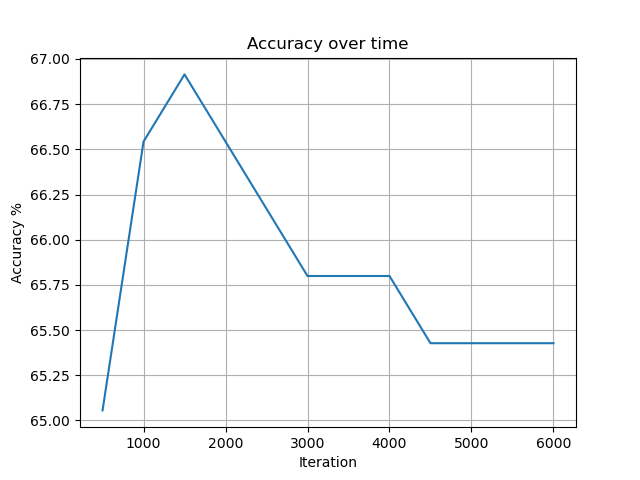
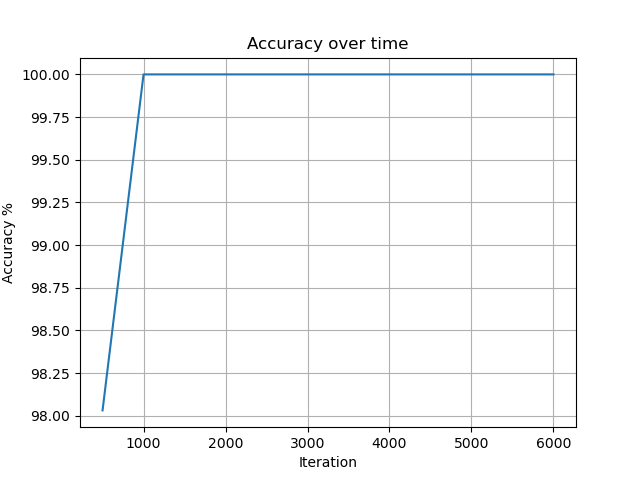
Optimizing

diff --git a/fnn.py b/fnn.py
@@ -9,20 +9,27 @@ class FeedforwardNeuralNetModel(nn.Module):
     def __init__(self, input_dim, hidden_dim, output_dim):
         super(FeedforwardNeuralNetModel, self).__init__()
         # Linear function
-        self.fc1 = nn.Linear(input_dim, hidden_dim) 
+        self.fc1 = nn.Linear(input_dim, hidden_dim)
+        self.bn1 = nn.BatchNorm1d(hidden_dim)
         # Linear function
         self.fc2 = nn.Linear(hidden_dim, hidden_dim * 2)  
+        self.bn2 = nn.BatchNorm1d(hidden_dim * 2)
         self.fc3 = nn.Linear(hidden_dim * 2, output_dim)  
         self.relu = nn.ReLU()
+        self.dropout = nn.Dropout(p=0.5)
     
     def forward(self, x):
         # Linear function  # LINEAR
         out = self.fc1(x)
+        out = self.bn1(out)
         # Non-linearity  # NON-LINEAR
         out = self.relu(out)
+        out = self.dropout(out)
         # Linear function (readout)  # LINEAR
         out = self.fc2(out)
+        out = self.bn2(out)
         out = self.relu(out)
+        out = self.dropout(out)
         out = self.fc3(out)
         return out
 
@@ -67,7 +74,7 @@ num_epochs = int(num_epochs)
 print(num_epochs)
 input_dim = 33
 output_dim = 2
-hidden_dim = 100
+hidden_dim = 1000
 
 train_dataset = CSVDataset(dataset_features, train_portion_dataset_labels)
 test_dataset = CSVDataset(test_dataset_features, test_portion_dataset_labels)
@@ -83,7 +90,17 @@ model = FeedforwardNeuralNetModel(input_dim, hidden_dim, output_dim)
 criterion = nn.CrossEntropyLoss()
 
 learning_rate = 0.1
-optimizer = torch.optim.SGD(model.parameters(), lr=learning_rate)
+optimizer = torch.optim.SGD(model.parameters(), lr=learning_rate) 
+
+ 
+val_split = 0.2
+val_size = int(len(train_portion_dataset) - val_split)
+train_size = len(train_portion_dataset) - val_size
+ 
+train_dataset, val_dataset = torch.utils.data.random_split(train_dataset,[train_size, val_size])
+val_loader = torch.utils.data.DataLoader(dataset=val_dataset, batch_size=batch_size, shuffle=False)
+ 
+
 accuracies = []
 iterations = []
 iter = 0
@@ -100,7 +117,11 @@ for epoch in range(num_epochs):
             correct = 0
             total = 0
             # Iterate through test dataset
-            for fields, labels in test_loader:
+            model.eval()
+            with torch.no_grad():
+                correct = 0
+                total = 0
+            for fields, labels in val_loader:
                 
                 # Forward pass only to get logits/output
                 outputs = model(fields)
